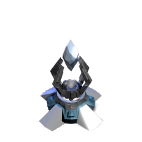
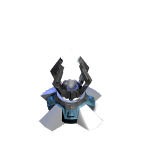
Final product

Changed region(s): [[0.4225, 0.2817, 0.5634, 0.507]]

diff --git a/Towers/Turret.py b/Towers/Turret.py
@@ -10,6 +10,10 @@ Bullet_images = []
 # Load imgs for Short tower:
 ShortTower_images.append(pygame.transform.scale(pygame.image.load(os.path.join("Assets/ROFENCE/Tower/Ice tower", "Ice.png")), (135, 135)))
 
+# Load bullet imgs:
+for i in range(1, 7):
+    Bullet_images.append(pygame.transform.scale(pygame.image.load(os.path.join("Assets/ROFENCE/Tower/Ice tower", "ice_00" + str(i) + ".png")), (55, 55)))
+
 
 # Short Tower Class (inherit from Tower Class)
 class ShortTower(Tower):
@@ -22,7 +26,7 @@ class ShortTower(Tower):
         self.range = 120
         self.inRange = False
         self.hitTimer = time.time()
-        self.damage = 2
+        self.damage = 2.5
         self.moving = False
         self.name = "ShortTower"
         self.left = False
@@ -31,7 +35,7 @@ class ShortTower(Tower):
     def draw(self, window):
         super().draw(window)
 
-        '''if self.inRange:
+        if self.inRange:
             self.bullet_count += 1
             if self.bullet_count >= len(self.bullet_imgs) * 5:
                 self.bullet_count = 0
@@ -39,7 +43,7 @@ class ShortTower(Tower):
             self.bullet_count = 0
 
         bullet = self.bullet_imgs[self.bullet_count // 5]
-        window.blit(bullet, ((self.x + self.width - 15) - (bullet.get_width() / 19), (self.y - bullet.get_height() + 115)))'''
+        window.blit(bullet, ((self.x + self.width - 22) - (bullet.get_width() / 10), (self.y - bullet.get_height() + 10)))
 
         # Draw Range Circle
         surface = pygame.Surface((self.range * 4, self.range * 4), pygame.SRCALPHA, 32)

diff --git a/main.py b/main.py
@@ -138,7 +138,7 @@ class Game:
             # GENERATE SPAWNS
             if not self.pause:
                 # gen monsters
-                if time.time() - self.timer >= random.randrange(1, 6) / 3:
+                if time.time() - self.timer >= random.randrange(1, 6):
                     self.timer = time.time()
                     self.gen_enemies()
 

diff --git a/Enemy/Robot.py b/Enemy/Robot.py
@@ -20,7 +20,7 @@ class Robot(Enemy):
     # define the details of the Robot
     def __init__(self):
         super().__init__()
-        self.maxHP = 7
+        self.maxHP = 8
         self.health = self.maxHP
         self.money = 8
         self.imgs = Robot_images[:]

diff --git a/Towers/Missle_tower.py b/Towers/Missle_tower.py
@@ -29,7 +29,7 @@ class LongTower(Tower):
         self.range = 300
         self.inRange = False
         self.hitTimer = time.time()
-        self.damage = 1
+        self.damage = 1.5
         self.moving = False
         self.name = "LongTower"
 

diff --git a/Enemy/Tanker.py b/Enemy/Tanker.py
@@ -20,7 +20,7 @@ class Tanker(Enemy):
 
     def __init__(self):
         super().__init__()
-        self.maxHP = 15
+        self.maxHP = 16
         self.health = self.maxHP
         self.money = 16
         self.imgs = images[:]
